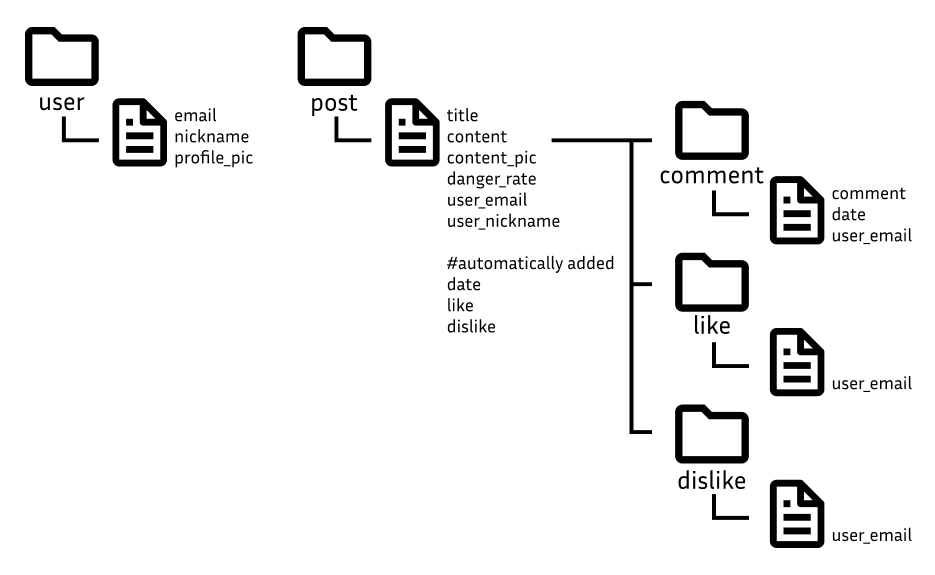
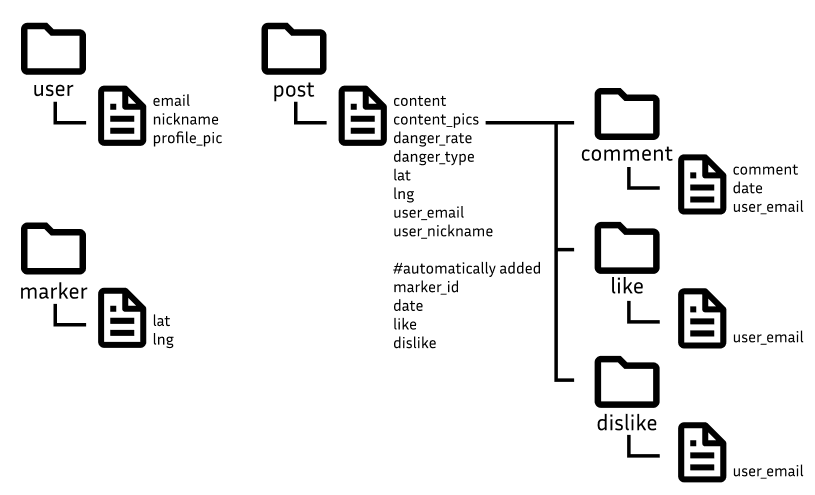
README

diff --git a/danger_map/danger_map/urls.py b/danger_map/danger_map/urls.py
@@ -18,6 +18,5 @@ from django.contrib import admin
 from django.urls import path, include
 
 urlpatterns = [
-    path('admin/', admin.site.urls),
     path('', include('danger_app.urls')),
 ]

diff --git a/README.md b/README.md
@@ -14,12 +14,12 @@
 # URL
 - 모든 URL의 출처는 `http://127.0.0.1:8000/`임
 
-|URL|HTTP Method|기능|추가|
+|URL|HTTP Method|기능|비고|
 |---|-----------|----|----|
 |`users`|GET|모든 유저 리스트를 가져온다|
-|`users/<user_email>`|GET|해당 이메일을 가진 유저를 가져온다|해당 프로젝트에선 이메일이 pk로 쓰임|
-|`users/profile-pic/<str:pk>/<str:url>`|PATCH, DELETE|해당 이메일의 유저 프로필 사진 수정 및 삭제|비활성화|
+|`users/<user_email>`|GET, DELETE|해당 이메일을 가진 유저를 가져온다|user는 이메일이 pk로 쓰임|
 |`posts`|GET, POST|모든 게시물 리스트를 가져온다|
+|`posts/<str:type>`|GET|위험 종류에 따른 게시물을 가져온다
 |`posts/?date={date}`|GET, DELETE|DELETE요청 시 게시글 삭제|
 |`posts/email/?user_email={user_email}`|GET|해당 이메일로 작성된 모든 게시글을 가져온다.
 |`markers`|GET|모든 마커 정보를 가져온다|게시글을 등록할 때 자동으로 추가된다.|
@@ -32,10 +32,6 @@
 
 # 추가 및 수정해야 할 기능들
 - firestore 보안 규칙 재설정
-- 로그인 기능
-- 구글 맵
-- 위치정보를 나타내는 필드 추가 : 경도, 위도, 위험정보
-- storage 연동
 
 # 수정 사항
 1. 24.01.13 : 기본 세팅 및 serializer 생성
@@ -43,7 +39,7 @@
 3. 24.01.24 : django-allauth 관련 코드 삭제, cors에러 처리
 
 # 데이터 모델
-![Alt text](image.png)
+![alt text](image.png)
 date, like, dislike필드는 자동으로 설정되나, date필드는 형식에 맞춰 입력은 해야 함.
 
 # 초기 설정
@@ -61,23 +57,65 @@ pip install pytz    # 설치 보류
 ### 1. `adminsdk.json` 파일을 루트 디렉토리에 넣는다.(manage.py가 있는 디렉토리)
 ### 2. `python manage.py runserver` 를 통해 서버를 연 후, 필요에 따라 위의 url들을 이용한다.
 
-#### post데이터 추가 시 주의사항
-    {
-        "user_email": "ffff@gmail.com",
-        "content": "ffff",
-        "user_nickname": "ffff",
-        "content_pics": [
-            "fff/fff"
-        ],
-        "lat": 33.111,
-        "danger_type": "ffff",
-        "lng": -44.222,
-        "location": "ffff",
-        "danger_rate": "5"
-    }
-위의 형식으로 POST하도록 한다.
+# POST요청에 따른 JSON 포맷
+모든 값은 하드코딩된 값이며, 실제론 프론트에서 값을 가져온다.
+1. `posts`
+    ```json
+        { // POST요청 시 포맷
+            "user_email": "ffff@gmail.com",
+            "content": "ffff",
+            "user_nickname": "ffff",
+            "content_pics": [
+                "fff/fff"
+            ],
+            "lat": 33.111,
+            "danger_type": "ffff",
+            "lng": -44.222,
+            "danger_rate": "5"
+        }
+
+        { // 실제 저장되는 값
+            "marker_id": "yFcwtBIwBlcM4izfQqBr",
+            "user_email": "ffff@gmail.com",
+            "date": "2024-02-18T21:13:10.543069Z",
+            "content": "ffff",
+            "user_nickname": "ffff",
+            "content_pics": [
+                "fff/fff"
+            ],
+            "lat": 33.111,
+            "danger_type": "ffff",
+            "lng": -44.222,
+            "danger_rate": "5",
+            "display_date": "2024-02-19 06:13",
+            "like": 0,
+            "dislike": 0
+        }
+    ```
+- marker_id 필드 : 위도, 경도값을 추출해 marker컬렉션에 새로운 문서를 만든 후 아이디값을 저장한다.
 - date 필드 : 데이터 등록 시점으로 채워진다.
 - like, dislike 필드 : GET요청을 통해 정보를 가져올 때마다 각각의 컬렉션에 들어있는 문서 개수를 카운트 해서 업데이트 된다.
 - danger_rate 필드 : integer필드로 큰따옴표 없이 0~100 사이의 숫자만 넣을 수 있도록 한다.
+- display_date 필드 : 타임스탬프의 포맷값을 보기 편하게 변경한 값이 자동 생성된다.
 - lat 필드 : -90 ~ 90 사이의 값
 - lng 필드 : -180 ~ 180 사이의 값
+
+2. `posts/like/?date={date}`
+    ```json
+        { // POST요청 시 포맷, 실제 저장되는 값
+            "user_email": "ff@gmail.com"
+        }
+    ```
+3. `posts/comment/?date={date}`
+    ```json
+        { // POST요청 시 포맷
+            "user_email": "ff@gmail.com",
+            "comment": "댓글"
+        }
+
+        { //실제 저장되는 값
+            "user_email": "ff@gmail.com",
+            "comment": "댓글",
+            "date": "date"
+        }
+    ```
